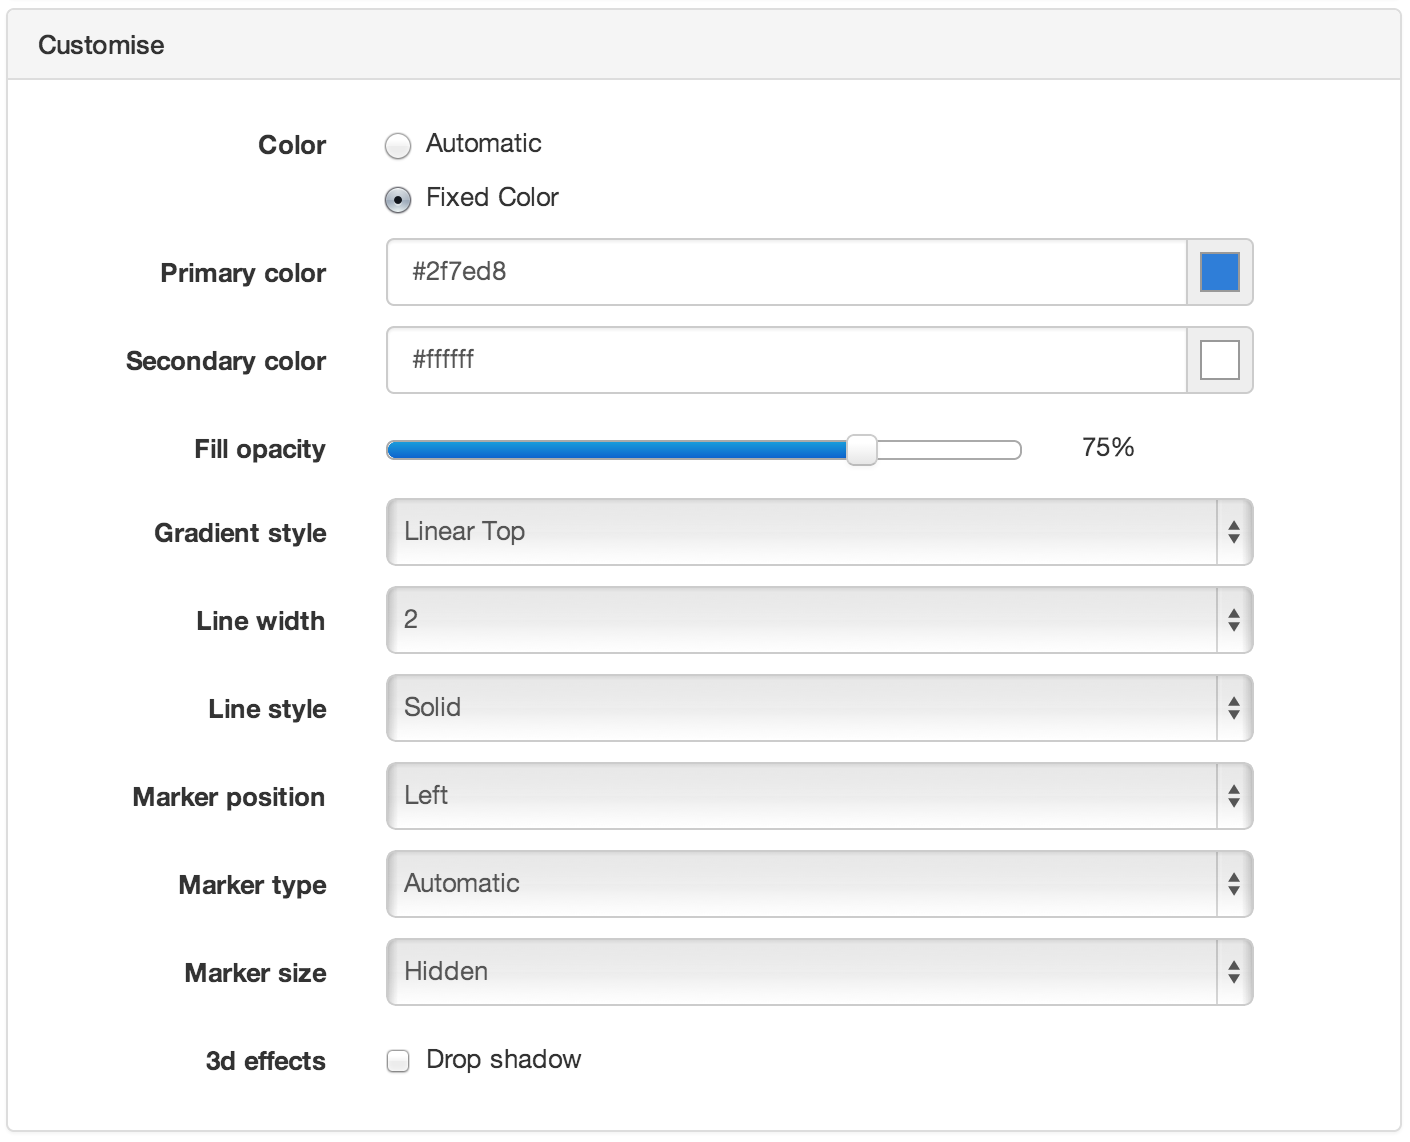
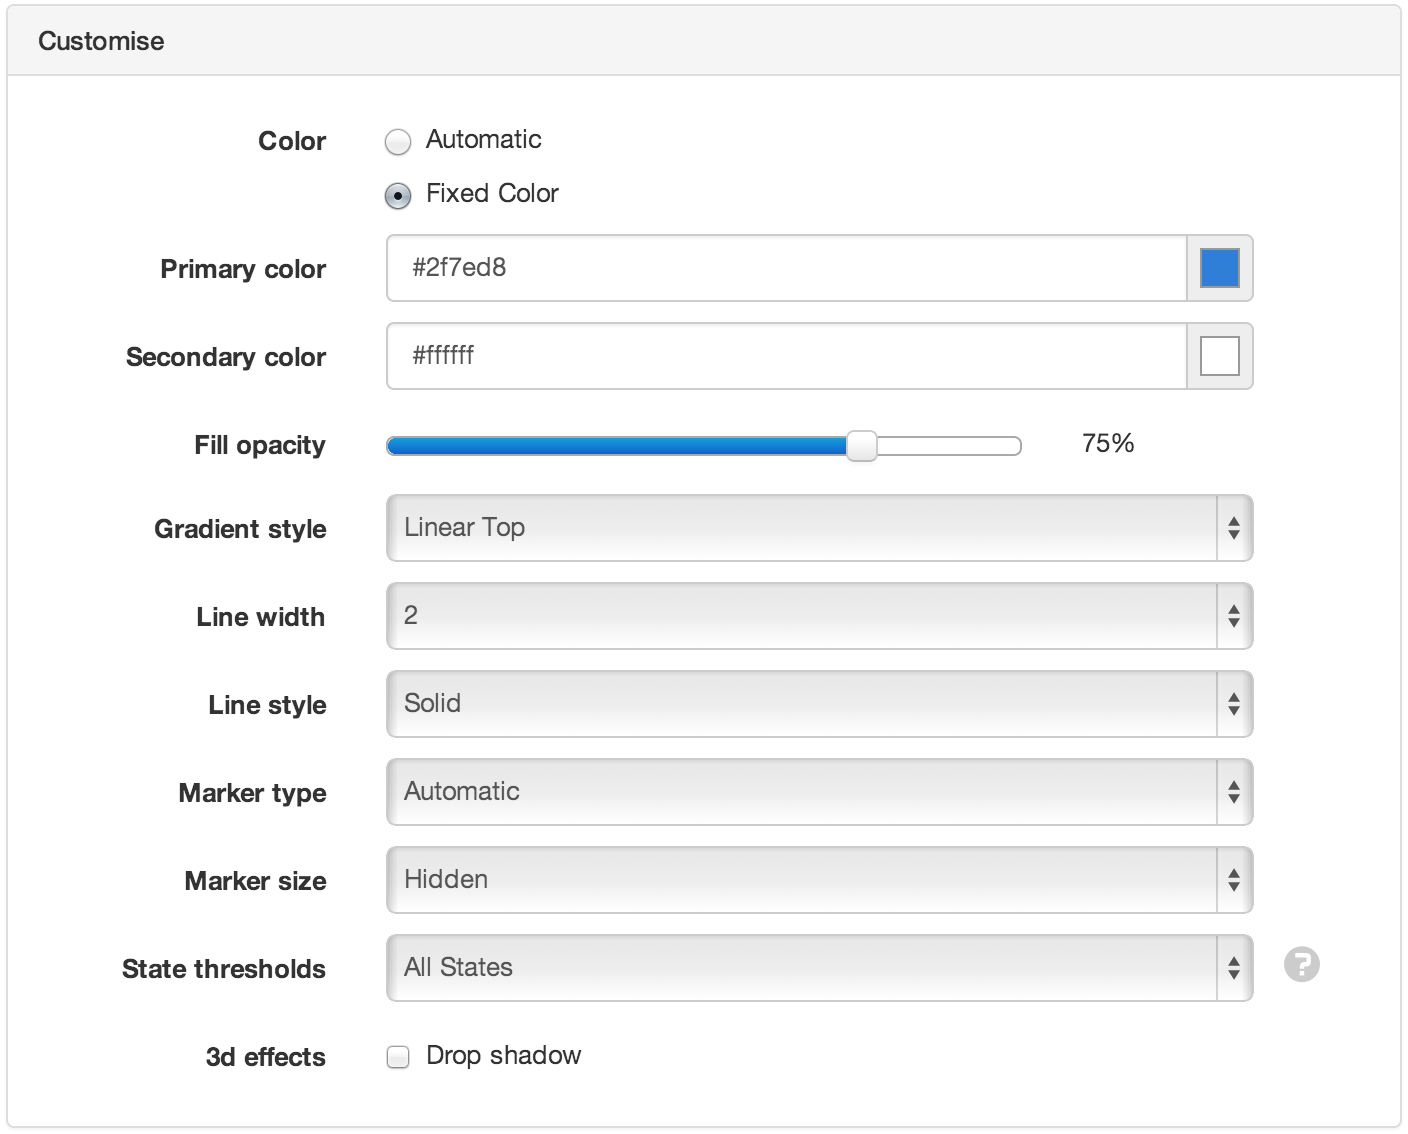
added chart customisation option 'stateThresholds'

diff --git a/source/topics/nodes/parameter.rst b/source/topics/nodes/parameter.rst
@@ -292,6 +292,15 @@ Column placement
 Marker size
     Data point markers are hidden by default (shown on hover), but can be set to always display by specifying a size between 1-6 (small-large).
 
+State thresholds
+    Select which State thresholds should be displayed on the chart:
+
+    *Hidden* will not display any State thresholds.
+
+    *All States* will display all configured States.
+
+    *Alarm States Only* will only display States that have also been set to alarm.
+
 
 Control
 ~~~~~~~~
